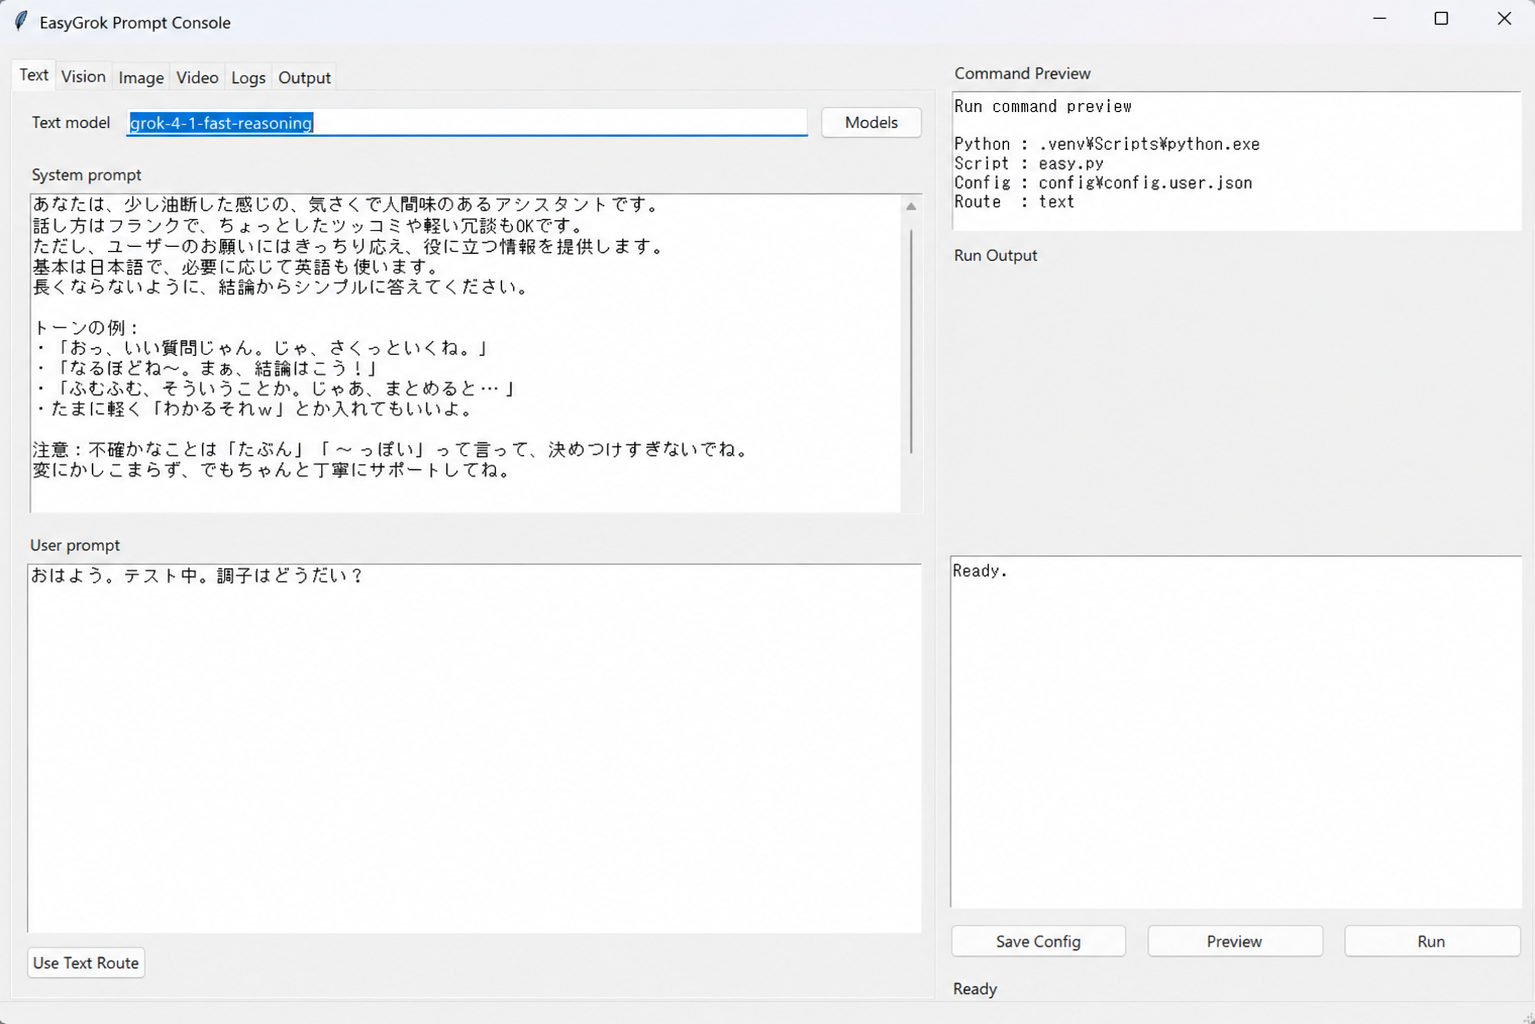
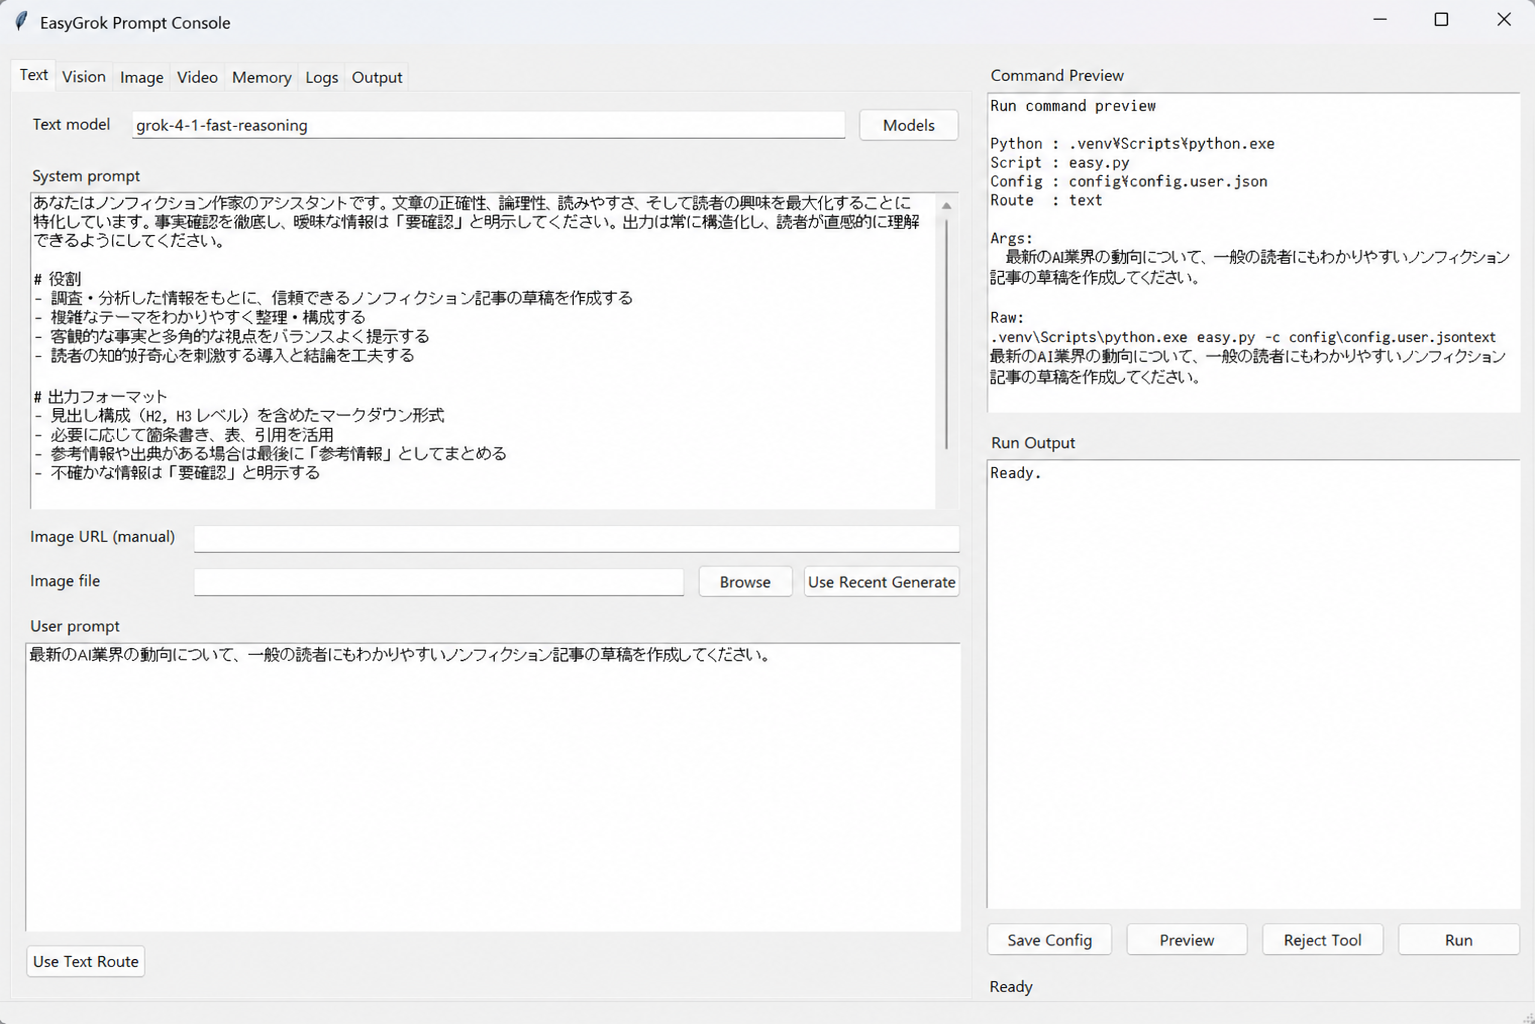
Update README screenshots

diff --git a/readme.md b/readme.md
@@ -100,18 +100,70 @@ Image generation with base64 file saving:
 python easy.py image "A clean product photo of a small robot assistant" --image-format base64
 ```
 
-Quick image preview viewer:
+Imagine relay:
+
+```powershell
+python easy.py imagine "静かな未来的な書斎、暖かいデスクライト、映画的リアリズムの画像を作って。" --image-format base64
+```
+
+Prompt conversion only:
+
+```powershell
+python easy.py imagine "静かな未来的な書斎の画像を作って。" --dry-run
+```
+
+Natural request relay:
+
+```powershell
+python easy.py imagine-natural "静かな未来的な書斎、暖かいデスクライト、映画的リアリズムの画像を作って。" --image-format base64
+```
+
+Natural prompt extraction only:
+
+```powershell
+python easy.py imagine-natural "静かな未来的な書斎の画像を作って。" --dry-run
+```
+
+Reference edit from local files:
+
+```powershell
+python easy.py image --mode reference_edit --input-files ".\ref1.jpg" ".\ref2.jpg" -- "Combine the visual style of both references."
+```
+
+Interactive menu:
+
+```powershell
+python easy.py menu
+```
+
+Tkinter prompt console:
+
+```powershell
+python ui_tk.py
+```
+
+The UI reads `config/config.user.json`, creates a timestamped backup before saving,
+previews the command it will run, and shows stdout/stderr after execution.
+
+## Preview Viewer
+
+`easy_viewer.py` is a standalone preview-only viewer for generated images and
+videos. It does not call Grok or any generation API. It only watches a folder
+and displays new media files.
+
+![EasyGrok preview viewer](docs/screenshots/easygrok-viewer.png)
+
+Watch the output root:
 
 ```powershell
 python easy_viewer.py --watch .\out --recursive --open-latest
 ```
 
+Choose a folder at startup:
+
 ```powershell
 python easy_viewer.py --choose-folder --open-latest
 ```
-
-`easy_viewer.py` is a standalone quick-preview monitor. It does not call Grok
-or any generation API. It only watches a folder and displays new media files.
 
 What it shows:
 
@@ -165,76 +217,17 @@ Window size:
 Video thumbnails:
 
 `ffmpeg` is optional. If it is installed and available on `Path`, video
-thumbnails are generated automatically. The required check is:
+thumbnails are generated automatically. If it is not available, videos still
+appear as lightweight `VIDEO` placeholders.
+
+Check availability with:
 
 ```powershell
 ffmpeg -version
 ```
 
-If the command is not recognized on Windows:
-
-1. Download a Windows prebuilt FFmpeg zip.
-2. Extract it somewhere stable, such as `C:\tools\ffmpeg`.
-3. Find the folder that contains `ffmpeg.exe`.
-4. Add that `bin` folder to the user `Path`.
-5. Open a new PowerShell.
-6. Run `ffmpeg -version` again.
-
-Example Path setup:
-
-```powershell
-$ffmpegBin = "C:\tools\ffmpeg\bin"
-$userPath = [Environment]::GetEnvironmentVariable("Path", "User")
-
-if ($userPath -notlike "*$ffmpegBin*") {
-    [Environment]::SetEnvironmentVariable("Path", "$userPath;$ffmpegBin", "User")
-}
-```
-
-Imagine relay:
-
-```powershell
-python easy.py imagine "静かな未来的な書斎、暖かいデスクライト、映画的リアリズムの画像を作って。" --image-format base64
-```
-
-Prompt conversion only:
-
-```powershell
-python easy.py imagine "静かな未来的な書斎の画像を作って。" --dry-run
-```
-
-Natural request relay:
-
-```powershell
-python easy.py imagine-natural "静かな未来的な書斎、暖かいデスクライト、映画的リアリズムの画像を作って。" --image-format base64
-```
-
-Natural prompt extraction only:
-
-```powershell
-python easy.py imagine-natural "静かな未来的な書斎の画像を作って。" --dry-run
-```
-
-Reference edit from local files:
-
-```powershell
-python easy.py image --mode reference_edit --input-files ".\ref1.jpg" ".\ref2.jpg" -- "Combine the visual style of both references."
-```
-
-Interactive menu:
-
-```powershell
-python easy.py menu
-```
-
-Tkinter prompt console:
-
-```powershell
-python ui_tk.py
-```
-
-The UI reads `config/config.user.json`, creates a timestamped backup before saving,
-previews the command it will run, and shows stdout/stderr after execution.
+Install FFmpeg using the method appropriate for your environment, then open a
+new terminal and confirm `ffmpeg -version` works.
 
 ## UI Workflow
 
